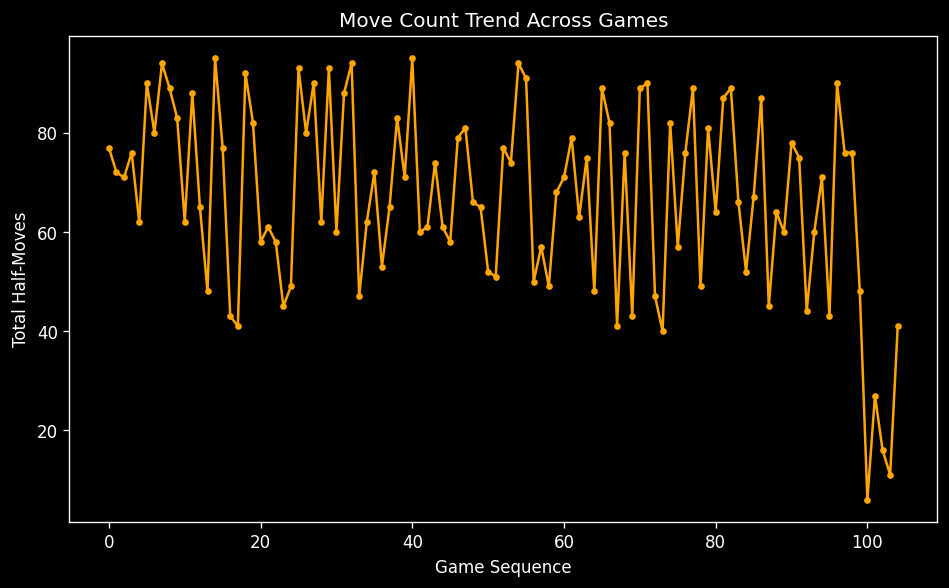
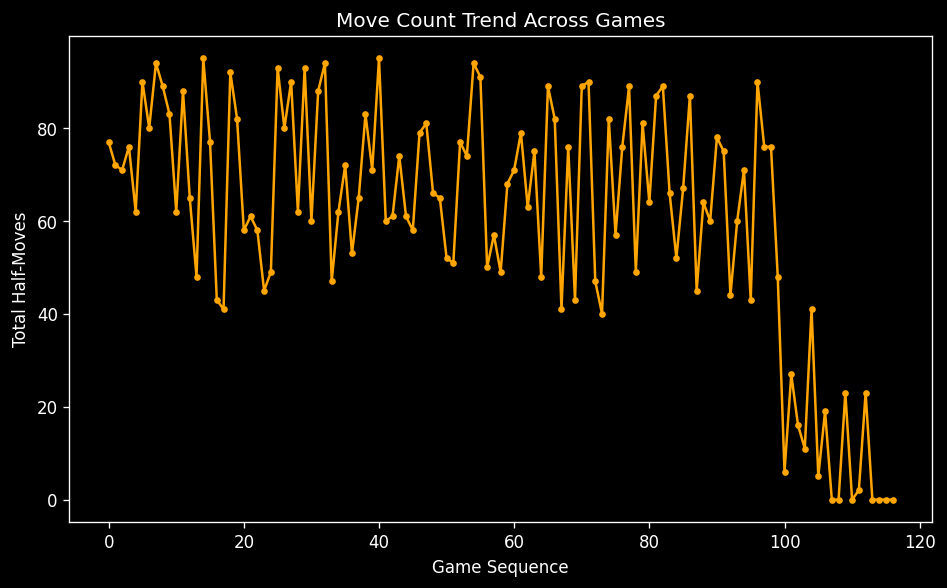
upload png

diff --git a/README.md b/README.md
@@ -4,7 +4,7 @@
 
 - **Project by:** Phasathat Jaruchitsophon (6610545375)
 - **Game Genre:** Strategy / Board Game
-- **Variant:** Chess960 (Fischer Random Chess)
+- **Variant:** Chess960WZ (Fischer Random Chess)
 
 A two-player local Chess960 game built with Python and Pygame. Each game starts from one of 960 randomly generated back-rank arrangements, removing reliance on opening memorization. Every move is recorded into CSV files, exported as a standard PGN, and visualized through an in-app analytics dashboard with seven dynamic chart types.
 
@@ -15,8 +15,8 @@ A two-player local Chess960 game built with Python and Pygame. Each game starts 
 Clone the repository:
 
 ```sh
-git clone https://github.com/<username>/chess960-wz.git
-cd chess960-wz
+git clone https://github.com/Tasachii/Chess960WZ.git
+cd Chess960WZ
 ```
 
 Create and activate a virtual environment, then install dependencies.
@@ -100,11 +100,7 @@ python3 main.py
 
 ## Unfinished Works
 
-- Threefold-repetition draw detection (only the 50-move rule is enforced).
-- Insufficient-material draw detection (e.g. K vs K, K+B vs K).
-- AI opponent for single-player mode.
-- Online / network multiplayer.
-- Sound effects.
+- None
 
 ---
 